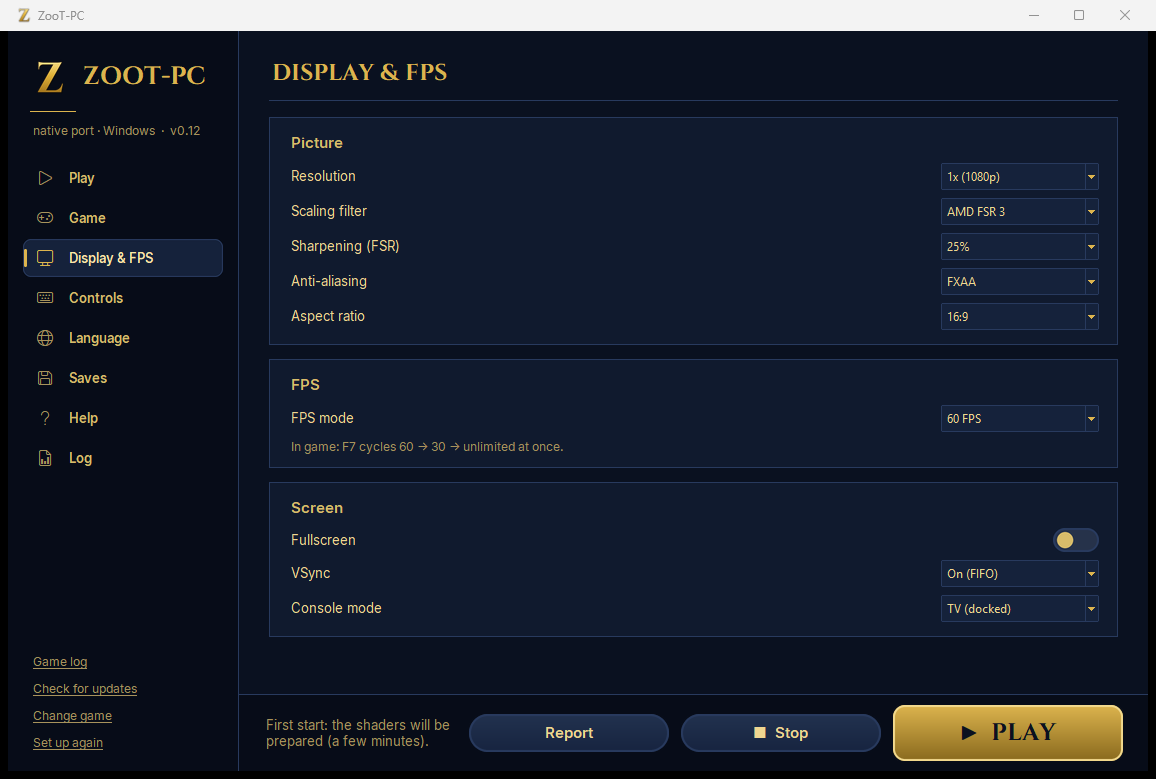
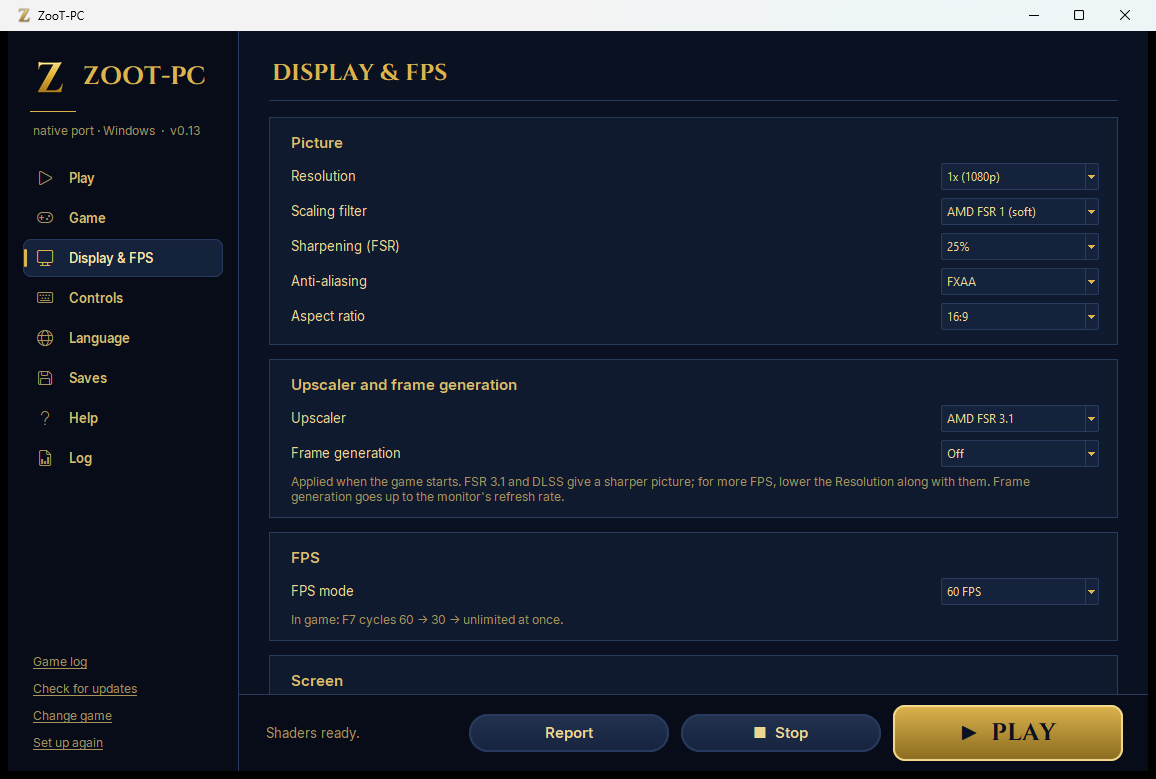
zoot v0.13: README, screenshots and key names

diff --git a/zoot/launcher/zoot_i18n.py b/zoot/launcher/zoot_i18n.py
@@ -674,6 +674,14 @@ T = {
                         'ja': 'マウスサイド 1', 'ko': '마우스 측면 1', 'ru': 'Боковая кнопка 1'},
     'Mouse lateral 2': {'en': 'Mouse side 2', 'es': 'Ratón lateral 2', 'fr': 'Souris latéral 2',
                         'ja': 'マウスサイド 2', 'ko': '마우스 측면 2', 'ru': 'Боковая кнопка 2'},
+    'Espaço': {'en': 'Space', 'es': 'Espacio', 'fr': 'Espace', 'ja': 'Space', 'ko': 'Space',
+               'ru': 'Пробел'},
+    'Ctrl dir.': {'en': 'Right Ctrl', 'es': 'Ctrl der.', 'fr': 'Ctrl droit', 'ja': '右 Ctrl',
+                  'ko': '오른쪽 Ctrl', 'ru': 'Правый Ctrl'},
+    'Shift dir.': {'en': 'Right Shift', 'es': 'Shift der.', 'fr': 'Maj droite', 'ja': '右 Shift',
+                   'ko': '오른쪽 Shift', 'ru': 'Правый Shift'},
+    'Alt dir.': {'en': 'Right Alt', 'es': 'Alt der.', 'fr': 'Alt droit', 'ja': '右 Alt',
+                 'ko': '오른쪽 Alt', 'ru': 'Правый Alt'},
     'Controle': {'en': 'Controller', 'es': 'Mando', 'fr': 'Manette', 'ja': 'コントローラー',
                  'ko': '컨트롤러', 'ru': 'Геймпад'},
     'Nenhum controle': {'en': 'No controller', 'es': 'Ningún mando', 'fr': 'Aucune manette',

diff --git a/zoot/launcher/zoot_controls.py b/zoot/launcher/zoot_controls.py
@@ -204,7 +204,8 @@ def describe(text, tr=lambda s: s):
     if not engine:
         return '—'
     if engine == 'keyboard':
-        return f"{tr('Tecla')} {key_name(p.get('code'))}"
+        name = key_name(p.get('code'))
+        return '—' if name == '—' else f"{tr('Tecla')} {tr(name)}"
     if engine == 'mouse':
         if 'axis_x' in p:
             return tr('Mouse (câmera)')

diff --git a/README.md b/README.md
@@ -19,9 +19,13 @@ graphics card and RAM).
 |---|---|
 | ![Controls page](docs/zoot/screenshots/launcher-controls.png) | ![Display & FPS page](docs/zoot/screenshots/launcher-display.png) |
 
-| Shader precompile on the loading screen | In-game `F1` menu |
+The in-game `F1` menu (tabs, mouse or keyboard, help for each option):
+
+![F1 menu](docs/zoot/screenshots/menu-f1.png)
+
+| Shader precompile on the loading screen | `F10` performance panel |
 |---|---|
-| ![Loading screen](docs/zoot/screenshots/loading-screen.png) | ![F1 menu](docs/zoot/screenshots/menu-f1.png) |
+| ![Loading screen](docs/zoot/screenshots/loading-screen.png) | ![F10 panel](docs/zoot/screenshots/perf-f10.png) |
 
 *Shown with the default ZooT card. Click the card (or *Game → Choose cover…*) to pick a picture
 from your PC: it replaces the Z on the card and goes behind the loading screen, on your PC only.*
@@ -30,7 +34,8 @@ from your PC: it replaces the Z on the card and goes behind the loading screen, 
 
 - **ZooT launcher** (`ZooT.exe`): finds your game, quick settings beside the game card, ready
   check (game, core, shaders, graphics card and RAM, in red when below the minimum), Display &
-  FPS, **Controls** (keyboard or controller, automatic mapping, change any button), language,
+  FPS, **Controls** (controller and keyboard/mouse together, automatic mapping, change any
+  button on either), language,
   saves with zip backups, help and the game log. Seven languages: Português, English, Español,
   Français, 日本語, 한국어, Русский.
 - **Updates itself**: checks the GitHub releases once a day (or on *Check for updates*),
@@ -42,9 +47,14 @@ from your PC: it replaces the Z on the card and goes behind the loading screen, 
 - **Less shader stutter**: the game's shaders are extracted from your own copy and precompiled
   once on a loading screen (Lichii's shader precache), with Vulkan pipeline libraries from Lichii
   [PR #741](https://github.com/zortos293/Lichii/pull/741) so new pipelines only cost a link.
+- **Keyboard and mouse, always on** beside the controller (as in the SotC-PC port): WASD
+  walks, the mouse turns the camera (click the game window to hold the mouse, Esc lets it go),
+  left click = sword (B), right click = target (ZL), Space = action (A). Every key and mouse
+  button can be changed in *Controls*.
 - **In-game shortcuts**
-  - `F1` ZooT menu: FPS mode, fullscreen, scaling filter, FSR sharpening, anti-aliasing, aspect
-    ratio, VSync, console mode and volume, applied at once; resolution for the next start.
+  - `F1` ZooT menu over the game: Display, Performance, Audio and Controls tabs (Q/E), each
+    option with its help; keyboard or mouse (click tabs, options and values, wheel to move).
+    Most options apply at once; resolution and upscaler on the next start.
   - `F7` FPS mode: 60 → 30 → unlimited (Ocarina's built-in Dynamic FPS keeps the game at speed).
   - `F8` frame generation on / off (built-in optical flow, one generated frame per game frame).
   - `F10` performance panel: FPS (game + generated), frame time, the game's VRAM and RAM, and a
